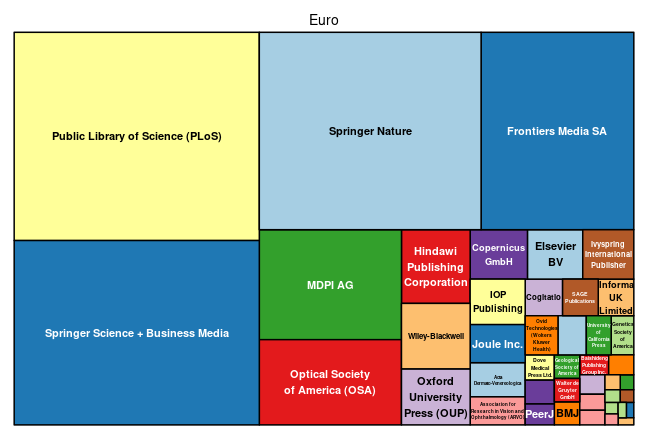
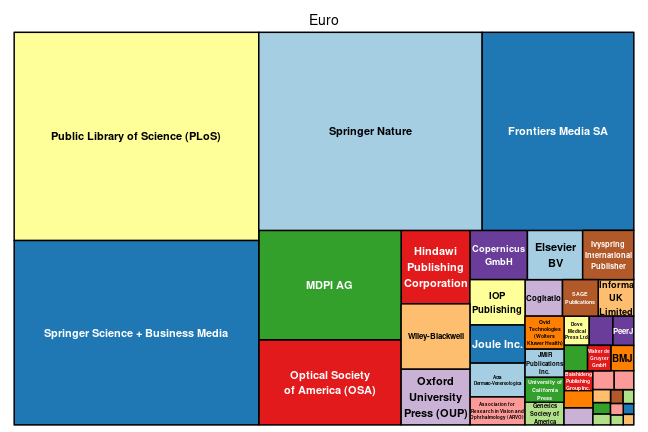
update: muenster apc data 2019

diff --git a/_posts/2020-05-13-muenster.md b/_posts/2020-05-13-muenster.md
@@ -22,7 +22,7 @@ Contact person is [Viola Voß](mailto:openaccess@uni-muenster.de).
 
 
 
-The new data set covers publication fees for 103 articles. Total expenditure amounts to 163 817€ and the average fee is 1 590€.
+The new data set covers publication fees for 104 articles. Total expenditure amounts to 165 475€ and the average fee is 1 591€.
 
 The following table shows the payments Münster University Library has made to publishers in 2019.
 
@@ -30,7 +30,7 @@ The following table shows the payments Münster University Library has made to p
 |                                                       | Articles| Fees paid in EURO| Mean Fee paid|
 |:------------------------------------------------------|--------:|-----------------:|-------------:|
 |MDPI AG                                                |       19|             29655|          1561|
-|Springer Nature                                        |       18|             29095|          1616|
+|Springer Nature                                        |       19|             30754|          1619|
 |Frontiers Media SA                                     |       17|             31078|          1828|
 |Public Library of Science (PLoS)                       |       16|             26927|          1683|
 |Wiley-Blackwell                                        |        6|              9803|          1634|
